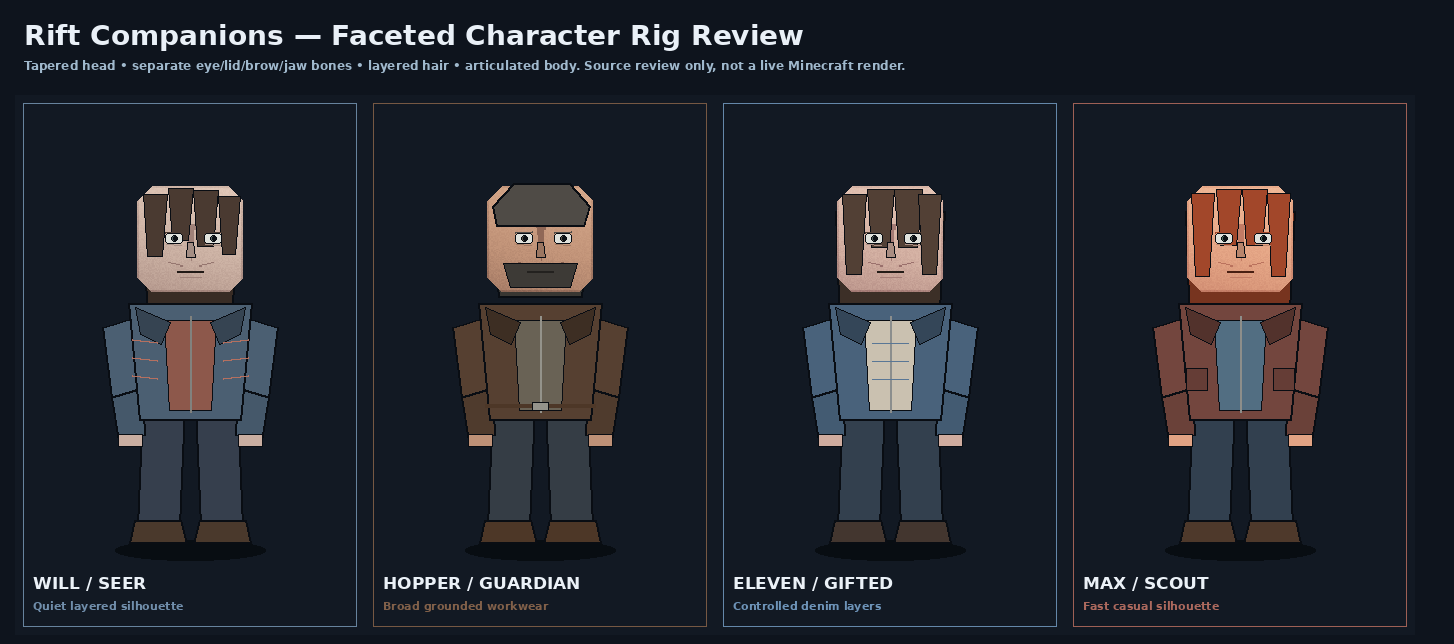
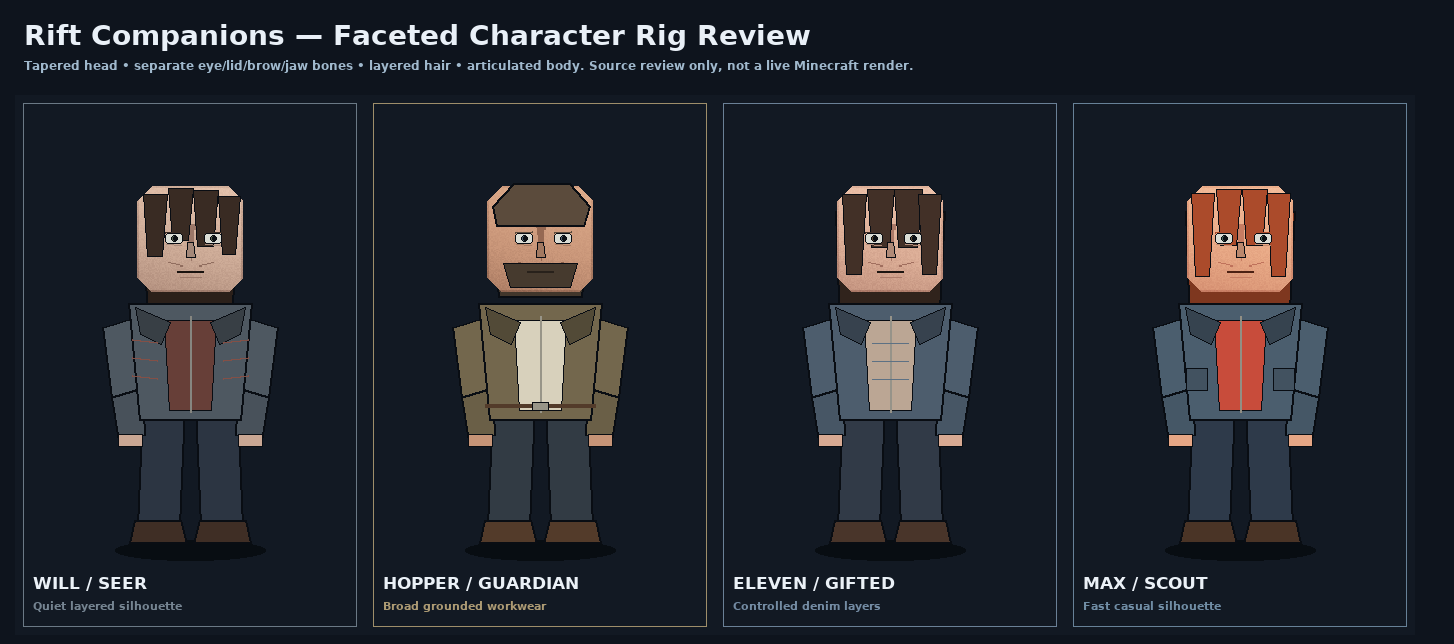
Refresh companion texture materials from reference direction

diff --git a/tools/generate_high_res_textures.py b/tools/generate_high_res_textures.py
@@ -53,18 +53,20 @@ class Palette:
 # Original, non-portrait palettes. They intentionally describe only broad,
 # grounded late-1980s character archetypes and never reproduce screen pixels.
 PERSONAL_PALETTES = (
-    Palette("will_seer.png", "WILL / SEER", "seer", (204, 178, 164), (126, 93, 88), (234, 209, 193),
-            (70, 55, 47), (130, 102, 81), (85, 101, 101), (70, 91, 111), (124, 148, 167),
-            (145, 87, 74), (57, 70, 86), (54, 63, 78), (74, 56, 44), (131, 132, 128), (160, 132, 96)),
-    Palette("hopper_sheriff.png", "HOPPER / GUARDIAN", "guardian", (194, 148, 121), (108, 73, 62), (224, 180, 149),
-            (73, 69, 65), (149, 142, 130), (86, 80, 67), (82, 61, 47), (135, 103, 79),
-            (106, 98, 85), (71, 75, 77), (53, 61, 69), (77, 54, 39), (152, 151, 142), (137, 123, 96)),
-    Palette("eleven_gifted.png", "ELEVEN / GIFTED", "gifted", (212, 177, 163), (129, 84, 84), (237, 207, 190),
-            (79, 62, 52), (137, 105, 84), (82, 96, 91), (68, 94, 121), (122, 149, 174),
-            (211, 201, 183), (74, 96, 119), (51, 64, 79), (66, 53, 47), (142, 145, 144), (157, 104, 88)),
-    Palette("max_scout.png", "MAX / SCOUT", "scout", (229, 166, 134), (168, 92, 76), (246, 196, 163),
-            (163, 68, 41), (222, 118, 72), (79, 112, 96), (112, 68, 62), (167, 102, 84),
-            (81, 111, 133), (91, 73, 69), (49, 64, 80), (78, 57, 43), (145, 145, 141), (189, 150, 79)),
+    # Hand-authored palettes informed by the supplied references: hair, eye and
+    # everyday clothing direction only — no photo pixels or portrait transfer.
+    Palette("will_seer.png", "WILL / SEER", "seer", (205, 171, 151), (118, 82, 70), (239, 205, 182),
+            (48, 37, 31), (105, 78, 60), (91, 104, 83), (73, 83, 92), (132, 145, 152),
+            (104, 61, 53), (55, 67, 83), (43, 52, 66), (61, 45, 36), (136, 137, 130), (150, 51, 47)),
+    Palette("hopper_sheriff.png", "HOPPER / GUARDIAN", "guardian", (202, 151, 122), (112, 72, 55), (232, 183, 148),
+            (82, 67, 53), (145, 126, 101), (83, 105, 122), (113, 100, 75), (163, 148, 110),
+            (225, 218, 196), (61, 76, 87), (49, 59, 68), (83, 59, 42), (157, 153, 139), (118, 91, 53)),
+    Palette("eleven_gifted.png", "ELEVEN / GIFTED", "gifted", (220, 174, 151), (135, 83, 70), (247, 206, 182),
+            (57, 42, 36), (117, 82, 64), (100, 80, 50), (72, 88, 104), (131, 151, 166),
+            (194, 172, 153), (65, 78, 92), (48, 58, 72), (72, 52, 42), (154, 151, 140), (135, 72, 73)),
+    Palette("max_scout.png", "MAX / SCOUT", "scout", (232, 169, 134), (173, 91, 72), (250, 201, 168),
+            (168, 67, 39), (232, 126, 72), (80, 112, 101), (72, 91, 108), (120, 145, 162),
+            (209, 74, 57), (65, 83, 101), (45, 58, 75), (73, 51, 37), (150, 147, 135), (217, 164, 72)),
 )
 
 PUBLIC_PALETTES = (
@@ -240,12 +242,57 @@ def garment_panels(image: Image.Image, palette: Palette, rng: random.Random) -> 
         draw.line((lx + lw // 2, ly + 4, lx + lw // 2, ly + lh - 6), fill=rgba(dark(palette.pants, 0.42)), width=1)
 
 
+def character_finish(image: Image.Image, palette: Palette) -> None:
+    """Add readable fabric and hair direction to the role's existing UV islands."""
+    draw = ImageDraw.Draw(image)
+    # Fine, non-repeating hair fibres keep the layered hair cuboids from reading as flat blocks.
+    x, y, w, h = rect("hair_tile")
+    strand = mix(palette.hair, palette.hair_light, 0.58)
+    shade = dark(palette.hair, 0.52)
+    for offset in range(3, w - 2, 4):
+        draw.line((x + offset, y + 3, x + max(2, offset - 5), y + h - 3), fill=rgba(strand), width=1)
+    draw.line((x + 2, y + h - 4, x + w - 3, y + h - 4), fill=rgba(shade), width=1)
+
+    # Eyes and iris materials are tiled independently by the animated face bones.
+    ex, ey, ew, eh = rect("eye_tile")
+    draw.rounded_rectangle((ex + 4, ey + 7, ex + ew - 5, ey + eh - 7), radius=5, fill=rgba((235, 238, 228)), outline=rgba((112, 99, 89)), width=1)
+    ax, ay, aw, ah = rect("accent_tile")
+    draw.ellipse((ax + 9, ay + 7, ax + aw - 10, ay + ah - 8), fill=rgba(palette.iris), outline=rgba(dark(palette.iris, .48)), width=2)
+    tx, ty, tw, th = rect("thread_tile")
+    draw.rectangle((tx, ty, tx + tw - 1, ty + th - 1), fill=rgba(dark(palette.hair, .34)))
+    draw.ellipse((tx + 15, ty + 12, tx + 33, ty + 33), fill=rgba((25, 22, 21)))
+    draw.ellipse((tx + 19, ty + 15, tx + 24, ty + 20), fill=rgba((232, 235, 226)))
+
+    # Role clothes: deliberate seam, pocket, plaid and lining variations.
+    if palette.role == "seer":
+        for name in ("cloth_tile", "torso_front"):
+            px, py, pw, ph = rect(name)
+            for line in range(px + 8, px + pw, 13): draw.line((line, py + 3, line, py + ph - 4), fill=rgba(mix(palette.outer, palette.accent, .48)), width=1)
+            for line in range(py + 8, py + ph, 13): draw.line((px + 3, line, px + pw - 4, line), fill=rgba(mix(palette.outer, palette.accent, .38)), width=1)
+    elif palette.role == "guardian":
+        px, py, pw, ph = rect("weather_tile")
+        draw.line((px + pw // 2, py + 4, px + pw // 2, py + ph - 5), fill=rgba(dark(palette.outer, .48)), width=2)
+        for yy in (py + 16, py + 31):
+            draw.line((px + 4, yy, px + pw - 5, yy), fill=rgba(mix(palette.outer, palette.outer_light, .35)), width=1)
+        px, py, pw, ph = rect("shirt_tile")
+        for yy in range(py + 9, py + ph - 4, 11): draw.line((px + 4, yy, px + pw - 5, yy), fill=rgba(mix(palette.inner, palette.skin_light, .25)), width=1)
+    elif palette.role == "gifted":
+        px, py, pw, ph = rect("field_tile")
+        for yy in range(py + 8, py + ph - 5, 9): draw.line((px + 3, yy, px + pw - 4, yy), fill=rgba(mix(palette.denim, palette.outer_light, .42)), width=1)
+        draw.line((px + pw // 2, py + 3, px + pw // 2, py + ph - 4), fill=rgba(dark(palette.denim, .50)), width=1)
+    else:
+        px, py, pw, ph = rect("jacket_tile")
+        draw.line((px + pw // 2, py + 3, px + pw // 2, py + ph - 4), fill=rgba(dark(palette.outer, .46)), width=2)
+        draw.rectangle((px + 6, py + 24, px + pw - 7, py + 49), outline=rgba(mix(palette.outer, palette.outer_light, .48)), width=1)
+
+
 def build_atlas(palette: Palette) -> Image.Image:
     rng = random.Random(zlib.crc32((palette.file_name + palette.label).encode("utf-8")))
     image = Image.new("RGBA", (TEXTURE_SIZE, TEXTURE_SIZE), (0, 0, 0, 0))
     material_tiles(image, palette, rng)
     face_panels(image, palette, rng)
     garment_panels(image, palette, rng)
+    character_finish(image, palette)
     return image
 
 
@@ -261,7 +308,7 @@ def preview(entries: list[tuple[Palette, Image.Image]]) -> None:
     canvas = Image.new("RGBA", (2 * (tile + margin) + margin, title_h + 2 * (tile + 56 + margin) + margin), (15, 21, 30, 255))
     draw = ImageDraw.Draw(canvas)
     draw.text((margin, 18), "Rift Companions — Original Faceted Character Texture Atlases", fill=(231, 239, 247, 255), font=font(22))
-    draw.text((margin, 49), "512px technical UV sheets for independent face, hair, clothing, and material geometry.", fill=(158, 183, 203, 255), font=font(12))
+    draw.text((margin, 49), "512px hand-authored UV sheets with readable hair fibres, eye materials, seams and clothing construction.", fill=(158, 183, 203, 255), font=font(12))
     for index, (palette, image) in enumerate(entries):
         x = margin + (index % 2) * (tile + margin)
         y = title_h + margin + (index // 2) * (tile + 56 + margin)
